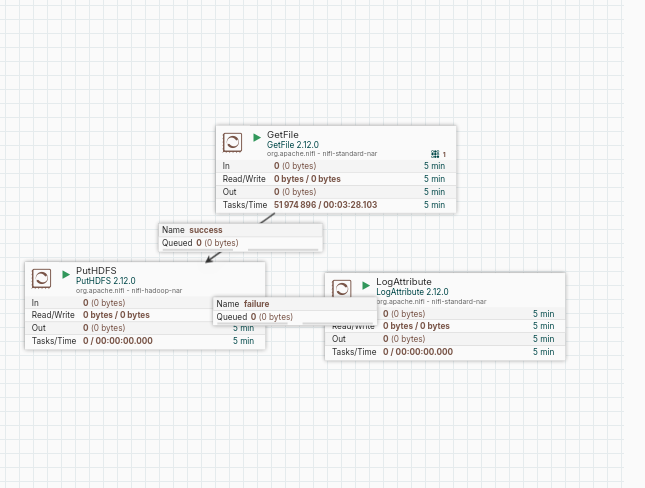
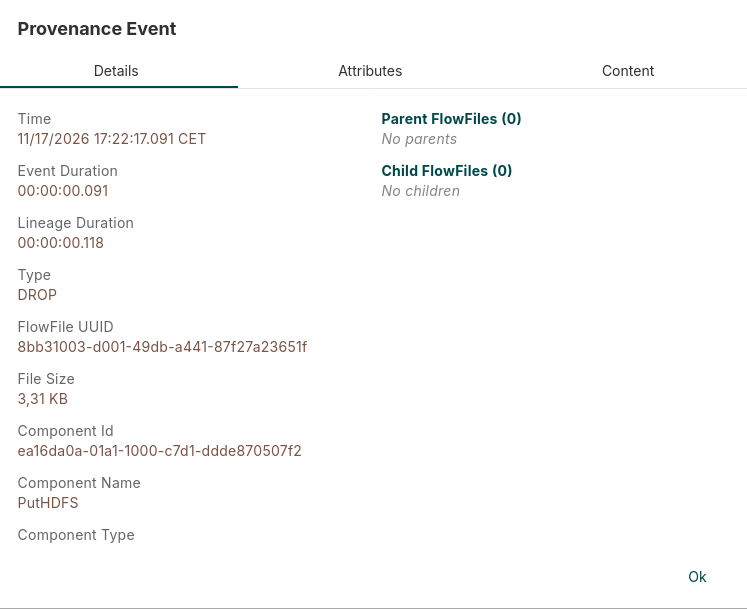
Finalisation du TP2 Hadoop HDFS et NiFi

Changed region(s): [[0.0, 0.0, 1.0, 1.0]]

diff --git a/TP2/README.md b/TP2/README.md
@@ -51,3 +51,94 @@ Il a ensuite été rangé dans la zone initial du Data Lake.
 ## Limites
 Environnement mono-noeud.
 Les fichiers CSV de démonstration sont distincts des données TPCx-BB.
+## Reproduction du TP
+
+### 1. Démarrage de Hadoop HDFS
+
+Démarrer les services HDFS :
+
+    start-dfs.sh
+
+Vérifier les processus :
+
+    jps
+
+Les processus attendus sont :
+- NameNode
+- DataNode
+- SecondaryNameNode
+
+### 2. Vérification du Data Lake
+
+Afficher les répertoires :
+
+    hdfs dfs -ls /retail-lake
+
+Vérifier les fichiers TPCx-BB :
+
+    hdfs dfs -ls -R /retail-lake/raw/tpcxbb
+
+### 3. Démarrage d'Apache NiFi
+
+Utiliser Java 21 :
+
+    export JAVA_HOME=/usr/lib/jvm/java-21-openjdk-amd64
+
+Démarrer NiFi :
+
+    /opt/nifi/bin/nifi.sh start
+
+Adresse de l'interface :
+
+    https://localhost:8443/nifi/
+
+### 4. Fonctionnement du flux NiFi
+
+Processeurs utilisés :
+- GetFile : récupère les fichiers dans le dossier local.
+- PutHDFS : envoie les fichiers vers HDFS.
+- LogAttribute : permet la consultation des attributs
+  dans le traitement des échecs.
+
+Dossier source :
+    /home/houda/nifi-input
+
+Destination HDFS :
+    /retail-lake/raw/nifi
+
+Vérification du dépôt :
+
+    hdfs dfs -ls -h /retail-lake/raw/nifi
+
+### 5. Gestion des erreurs
+
+Un test a été réalisé avec un dossier source inexistant.
+NiFi a signalé l'erreur de configuration.
+Le chemin correct a ensuite été rétabli.
+
+Voir le fichier test_erreur_nifi.txt.
+
+### 6. Provenance et intégrité
+
+La provenance du FlowFile store.dat a été vérifiée
+dans NiFi.
+
+Les contrôles SHA-256 ont permis de comparer
+les fichiers locaux et les fichiers HDFS.
+
+Voir :
+- provenance_nifi.txt
+- controle_integrite_donnees.txt
+- preuve_integrite_nifi.txt
+
+### 7. Arrêt des services
+
+Arrêter NiFi :
+
+    /opt/nifi/bin/nifi.sh stop
+
+Arrêter Hadoop HDFS :
+
+    stop-dfs.sh
+
+Ne jamais reformater le NameNode pour redémarrer HDFS.
